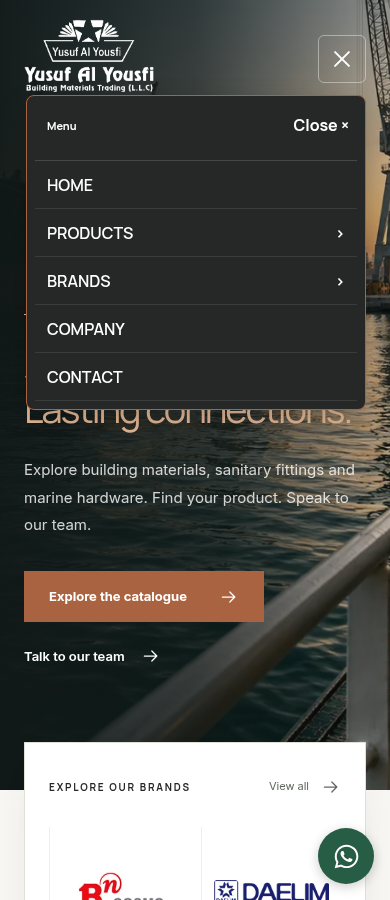
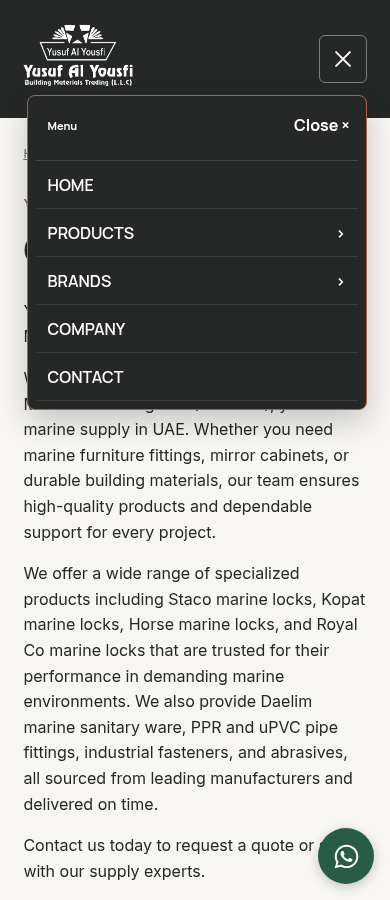
Apply homepage navigation effects to every page

diff --git a/app/menu-hover-effects.css b/app/menu-hover-effects.css
@@ -7,12 +7,12 @@
   display: none;
   pointer-events: none;
 }
-body:has(.home-page) .menu-hover-navigation a:has(> .menu-hover-effect),
-body:has(.home-page) .menu-hover-navigation summary:has(> .menu-hover-effect) {
+.menu-hover-navigation a:has(> .menu-hover-effect),
+.menu-hover-navigation summary:has(> .menu-hover-effect) {
   padding: 0;
   text-decoration: none;
 }
-body:has(.home-page) .menu-hover-effect {
+.menu-hover-effect {
   position: relative;
   isolation: isolate;
   display: flex;
@@ -22,7 +22,7 @@ body:has(.home-page) .menu-hover-effect {
   padding: 10px 12px;
   color: #fff;
 }
-body:has(.home-page) .menu-hover-label {
+.menu-hover-label {
   position: relative;
   z-index: 2;
   display: flex;
@@ -33,7 +33,7 @@ body:has(.home-page) .menu-hover-label {
   text-transform: uppercase;
   font-weight: 600;
 }
-body:has(.home-page) .menu-hover-borders {
+.menu-hover-borders {
   position: absolute;
   inset: 0;
   z-index: 1;
@@ -44,7 +44,7 @@ body:has(.home-page) .menu-hover-borders {
   opacity: 0;
   transform-origin: center;
 }
-body:has(.home-page) .menu-hover-fill {
+.menu-hover-fill {
   position: absolute;
   inset: 2px 0;
   z-index: 0;
@@ -54,82 +54,58 @@ body:has(.home-page) .menu-hover-fill {
   opacity: 0;
   transform-origin: top;
 }
-body:has(.home-page)
-  .menu-hover-navigation
+.menu-hover-navigation
   :is(a, summary):is(:hover, :focus-visible)
   > .menu-hover-effect,
-body:has(.home-page)
-  .menu-hover-navigation
-  details[open]
-  > summary
-  > .menu-hover-effect {
+.menu-hover-navigation details[open] > summary > .menu-hover-effect {
   color: #262626;
 }
-body:has(.home-page)
-  .menu-hover-navigation
+.menu-hover-navigation
   :is(a, summary):is(:hover, :focus-visible)
   .menu-hover-borders,
-body:has(.home-page)
-  .menu-hover-navigation
-  details[open]
-  > summary
-  .menu-hover-borders {
+.menu-hover-navigation details[open] > summary .menu-hover-borders {
   transform: scaleY(1);
   opacity: 1;
 }
-body:has(.home-page)
-  .menu-hover-navigation
+.menu-hover-navigation
   :is(a, summary):is(:hover, :focus-visible)
   .menu-hover-fill,
-body:has(.home-page)
-  .menu-hover-navigation
-  details[open]
-  > summary
-  .menu-hover-fill {
+.menu-hover-navigation details[open] > summary .menu-hover-fill {
   transform: scale(1);
   opacity: 1;
 }
 @media (prefers-reduced-motion: no-preference) {
-  body:has(.home-page) .menu-hover-effect {
+  .menu-hover-effect {
     transition: color 300ms ease;
   }
-  body:has(.home-page) .menu-hover-borders,
-  body:has(.home-page) .menu-hover-fill {
+  .menu-hover-borders,
+  .menu-hover-fill {
     transition:
       transform 300ms ease,
       opacity 300ms ease;
   }
-  body:has(.home-page) .menu-toggle-line {
+  .menu-toggle-line {
     transition:
       transform 300ms ease,
       opacity 300ms ease;
   }
 }
-body:has(.home-page)
-  .mobile-navigation[open]
-  > summary
-  .menu-toggle-line:nth-child(1) {
+.mobile-navigation[open] > summary .menu-toggle-line:nth-child(1) {
   transform-origin: 12px 6px;
   transform: translateY(6px) rotate(45deg);
 }
-body:has(.home-page)
-  .mobile-navigation[open]
-  > summary
-  .menu-toggle-line:nth-child(2) {
+.mobile-navigation[open] > summary .menu-toggle-line:nth-child(2) {
   opacity: 0;
 }
-body:has(.home-page)
-  .mobile-navigation[open]
-  > summary
-  .menu-toggle-line:nth-child(3) {
+.mobile-navigation[open] > summary .menu-toggle-line:nth-child(3) {
   transform-origin: 12px 18px;
   transform: translateY(-6px) rotate(-45deg);
 }
 @media (min-width: 651px) and (max-width: 1000px) {
-  body:has(.home-page) .desktop-navigation .menu-hover-label {
+  .desktop-navigation .menu-hover-label {
     font-size: 13px;
   }
-  body:has(.home-page) .desktop-navigation .menu-hover-effect {
+  .desktop-navigation .menu-hover-effect {
     padding-inline: 8px;
   }
 }

diff --git a/scripts/check-menu-hover.ts b/scripts/check-menu-hover.ts
@@ -75,14 +75,35 @@ async function main() {
         .evaluate((el) => getComputedStyle(el).transitionDuration),
       "0s",
     );
-    await page.goto(base + "/brands/");
-    assert.equal(
-      await page
-        .locator(".desktop-navigation .menu-hover-fill")
-        .first()
-        .evaluate((el) => getComputedStyle(el).display),
-      "none",
-    );
+    for (const route of [
+      "/brands/",
+      "/shop/",
+      "/categories/",
+      "/about-us/",
+      "/contact-us/",
+      "/blog/",
+      "/product/dc-102/",
+    ]) {
+      await page.goto(base + route);
+      const link = page.locator(".desktop-navigation > a").first();
+      await link.hover();
+      assert.equal(
+        await link
+          .locator(".menu-hover-fill")
+          .evaluate((el) => getComputedStyle(el).display),
+        "block",
+      );
+      assert.equal(
+        await link
+          .locator(".menu-hover-fill")
+          .evaluate((el) => getComputedStyle(el).opacity),
+        "1",
+      );
+      if (route === "/brands/")
+        await page
+          .locator("header")
+          .screenshot({ path: `${output}/desktop-inner.png` });
+    }
     assert.deepEqual(errors, []);
     await page.close();
     for (const width of [768, 651, 390, 320]) {
@@ -90,7 +111,7 @@ async function main() {
         viewport: { width, height: 900 },
         reducedMotion: "reduce",
       });
-      await p.goto(base + "/");
+      await p.goto(base + "/contact-us/");
       if (width <= 650) {
         const mobile = p.locator(".mobile-navigation");
         await mobile.locator(":scope > summary").click();
@@ -135,7 +156,7 @@ async function main() {
       .click();
     await staticPage.waitForURL("**/about-us/");
     console.log(
-      "PASS supplied menu hover: actual border/fill animation, real URLs, keyboard/dropdowns/Escape/outside click, mobile Back/hamburger, no-JS links, reduced motion and homepage-only styling.",
+      "PASS supplied menu hover: actual border/fill animation, real URLs, keyboard/dropdowns/Escape/outside click, mobile Back/hamburger, no-JS links, reduced motion and sitewide styling.",
     );
   } finally {
     await browser.close();

diff --git a/docs/page-scroll-motion.md b/docs/page-scroll-motion.md
@@ -7,3 +7,5 @@ Scroll position controls translation/rotation/scale and settles at mid-passage. 
 Verify: npm run build -- --webpack; npm run check:export; YAYBMT_TEST_URL=http://127.0.0.1:8103 node --import tsx scripts/check-page-scroll.ts.
 
 Cards and images: full catalogue/related-product cards, brand cards, company/leadership panels, article/category directory cards and gallery photo frames now assemble on scroll as well. Content images animate independently; product zoom images animate through their outer photo frame so pointer-based zoom remains intact. Modal images, thumbnail controls and small icons stay steady. Layout bounds are captured before applying parent/child motion to prevent compounded measurements.
+
+Navigation is consistent sitewide: the supplied animated border/fill labels, uppercase text and morphing mobile toggle now apply on every route. The homepage keeps its transparent hero overlay; inner pages keep the charcoal header for contrast. Shared native dropdowns, mobile Back, outside click, Escape and no-JavaScript links are preserved. Verify with npm run test:menu.
